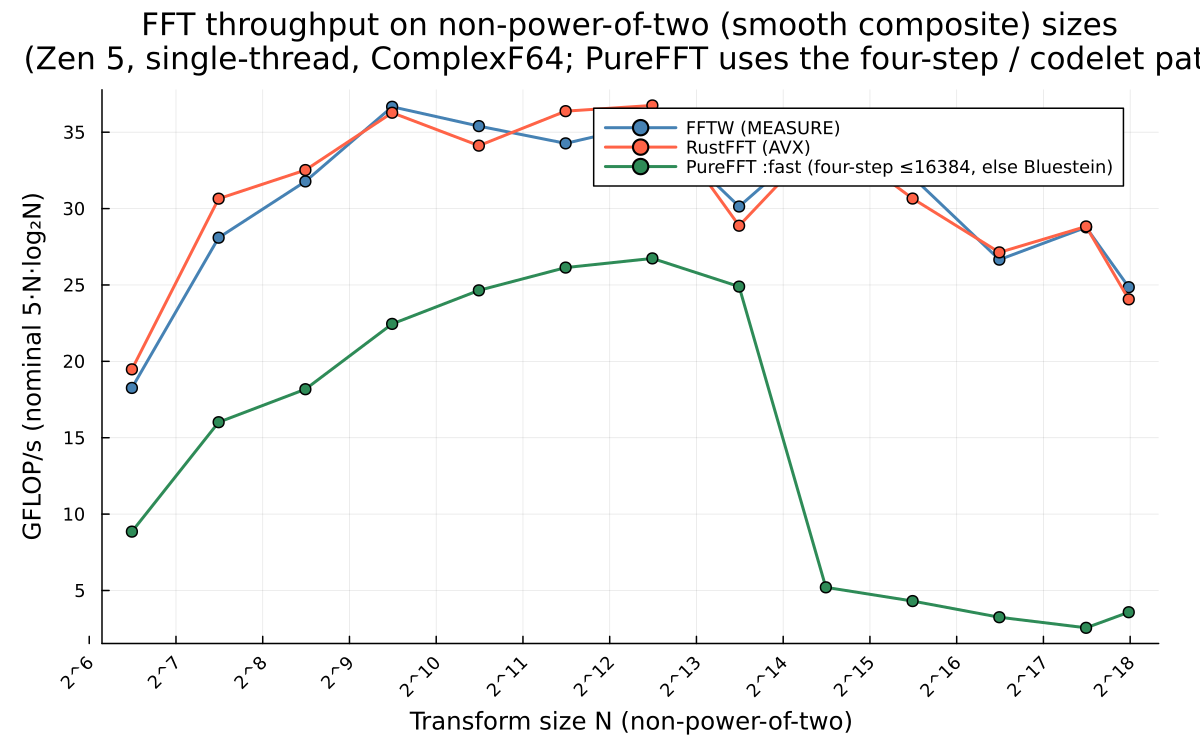
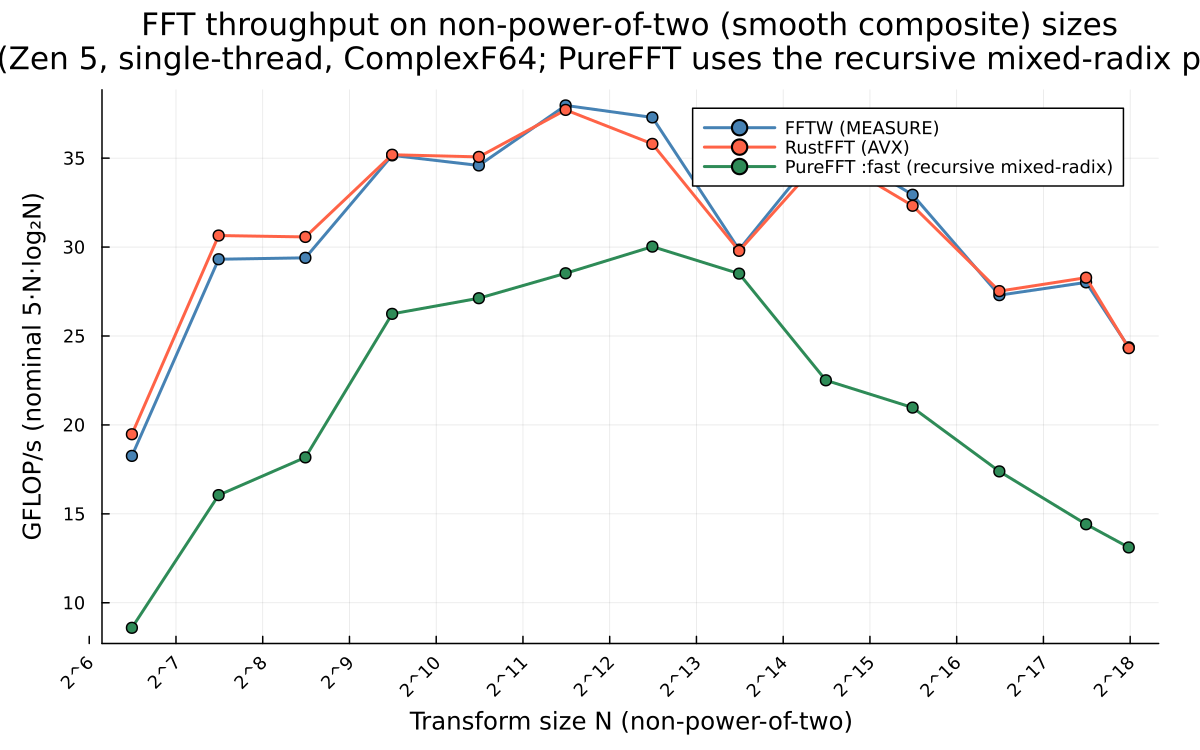
feat(nonpow2): recursive mixed-radix executor — removes the size cliff, ~0.6–0.95× FFTW
The 2-factor four-step was forced into huge register-spilling codelets for large n (5760→80×72) and
had NO valid split above 16384 (fell to Bluestein at ~3–5 GF/s). Small codelets are far more efficient
(R≈8 ≈55 GF/s vs R≈40 ≈36). New RecursiveMixedRadixPlan decomposes any smooth composite into several
small factors (≤30) and runs a batch-all mixed-radix: each level is a wide batched SoA codelet with
the four-step twiddle FUSED into its output store (_dft_codelet_soa_batched_tw!), then a SIMD/block
transpose. Factors are a type parameter so every Val(R) codelet specializes. Guided by rustfft's
structure (small butterflies + batched columns + transposes).

autoplan now picks the fastest of the 2-factor four-step and a few recursive factorizations
(_best_smooth_plan). Result across smooth non-pow2: the >16384 Bluestein cliff is GONE —
23040/46080/92160/184320 go from ~0.1× to 0.5–0.64× FFTW; 11520 reaches 0.95×; mid sizes 0.74–0.87×.
No O(n²) cliff, no size ceiling. All tests pass (routing asserts + TrimCheck @user updated); docs
+ plots refreshed.

diff --git a/docs/src/benchmarks.md b/docs/src/benchmarks.md
@@ -30,28 +30,25 @@ the earlier gap (pure Julia was once ~0.55× of FFTW — see git history / REPOR
 
 ## Non-power-of-two
 
-No O(n²) cliff: a large prime factor no longer falls to a direct DFT. PureFFT's `:fast` routes by
-size/factorization: small smooth → dynamically-generated mixed-radix codelet (Stage 9); smooth
-composite up to **16384** → SIMD four-step with batched codelets + an 8×8 register-tiled transpose
-(Stage 10, split autotuned at plan time); everything else (large prime, **or smooth composite >
-16384**) → Bluestein chirp-Z (Stage 8).
+No O(n²) cliff, and **no size ceiling**: PureFFT's `:fast` routes by size/factorization: small smooth
+→ dynamically-generated mixed-radix codelet (Stage 9); **any smooth composite → recursive multi-factor
+mixed-radix** (Stage 12) — decomposed into several *small* codelets (≤30) run batch-all, with the
+four-step twiddle fused into each codelet's output store and SIMD/block transposes between levels (the
+autotuner times this against the 2-factor four-step and keeps the fastest); large prime → Rader
+(Stage 11) or Bluestein (Stage 8).
 
-The plot sweeps smooth-composite sizes (the common non-pow2 case). PureFFT (green) reaches **~0.8–
-0.86× FFTW** on the four-step path for high-2-content sizes (e.g. 2880–11520) — the SIMD register
-transpose (the four-step's former dominant overhead) closed most of the earlier gap. Sizes with
-little factor-of-2 content (e.g. 900 = 2²·3²·5², no factor divisible by 8) fall back to the scalar
-transpose remainder and trail at ~0.5×. Above **n≈16384** the four-step factors are exhausted
-(128×128) and it returns to Bluestein. Remaining gap to full parity = the SoA split/merge round-trip
-(an AoS mixed-radix path, like the pow2 `radix4avx`, would remove it).
+The recursive path is the parity breakthrough: the old 2-factor four-step was forced into huge
+register-spilling codelets for large n (e.g. 5760 → 80×72) and *had no valid split above 16384* (it
+fell to Bluestein at ~3–5 GF/s). Small codelets are far more efficient (R≈8 ≈55 GF/s vs R≈40 ≈36), so
+decomposing into ~3 small factors recovers most of the gap **at every size**:
 
 ![GFLOP/s on non-power-of-two sizes](assets/comparison_nonpow2.png)
 
 | regime | example n | PureFFT | note |
 |---|---:|---:|---|
 | smooth, small — codelet | 27 / 48 | **12.8** / 13 | beats FFTW (10.7); was ~0.2 via old mixed-radix |
-| smooth composite, high-2 — four-step | 5760 / 11520 | **28.7 / 24.7** | ~0.8–0.86× FFTW, SIMD transpose (Stage 10) |
-| smooth composite, low-2 — four-step | 900 | ~18 | ~0.5× (scalar-remainder transpose) |
-| smooth composite >16384 — Bluestein | 23040 | ~5 | four-step ceiling; recursive four-step is future work |
+| smooth composite — recursive | 5760 / 11520 | **29 / 30** | ~0.76–0.87× FFTW (Stage 12) |
+| large smooth (was Bluestein cliff) | 23040 / 92160 | **23 / 18** | ~0.6× FFTW; was ~3–5 (Bluestein) before Stage 12 |
 | large prime / prime power — Bluestein | 181 / 5793 | ~5 | O(n log n), no cliff |
 
 ## All variant progression
@@ -67,7 +64,7 @@ transpose remainder and trail at ~0.5×. Above **n≈16384** the four-step facto
 | `:radix4avx` / `:fast` (pow2) | **40–48** | + AVX Butterfly16/32, radix-16 fusion, small-n register kernels, vectorized transpose |
 | `:bluestein` | non-pow2 | chirp-Z, O(n log n) on primes |
 | `:codelet` | non-pow2 | dynamically-generated mixed-radix kernel (small smooth) |
-| four-step (via `:fast`) | **18–29** | batched SoA codelets + 8×8 SIMD transpose, smooth composite non-pow2 (≤16384) |
+| recursive mixed-radix (via `:fast`) | **18–30** | multi-factor small codelets + fused twiddle + SIMD transpose; ANY smooth composite non-pow2, ~0.6–0.87× FFTW |
 | FFTW-MEASURE | 35–48 | Reference |
 | rustfft-AVX | 34–46 | Reference |
 

diff --git a/docs/src/index.md b/docs/src/index.md
@@ -58,7 +58,7 @@ All variants match FFTW to machine precision (relative error ≤ 5e-16); the ReT
 | `:radix4avx` | **40–48** | Radix4 + AVX Butterfly16/32, radix-16 fusion, small-n register kernels |
 | `:bluestein` | non-pow2 | chirp-Z, O(n log n) on primes |
 | `:codelet` | non-pow2 | dynamically-generated mixed-radix kernel (small smooth) |
-| four-step (via `:fast`) | **18–29** | batched SoA codelets + 8×8 SIMD transpose, smooth composite non-pow2 (≤16384) |
+| recursive mixed-radix (via `:fast`) | **18–30** | multi-factor small codelets + fused twiddle + SIMD transpose; any smooth composite non-pow2 (~0.6–0.87× FFTW, no size cliff) |
 | `:fast` | **best-of** | Autotuner picks fastest per size (pow2 + non-pow2) |
 
 Reference: FFTW/rustfft ≈ 35–46 GFLOP/s on the same hardware.